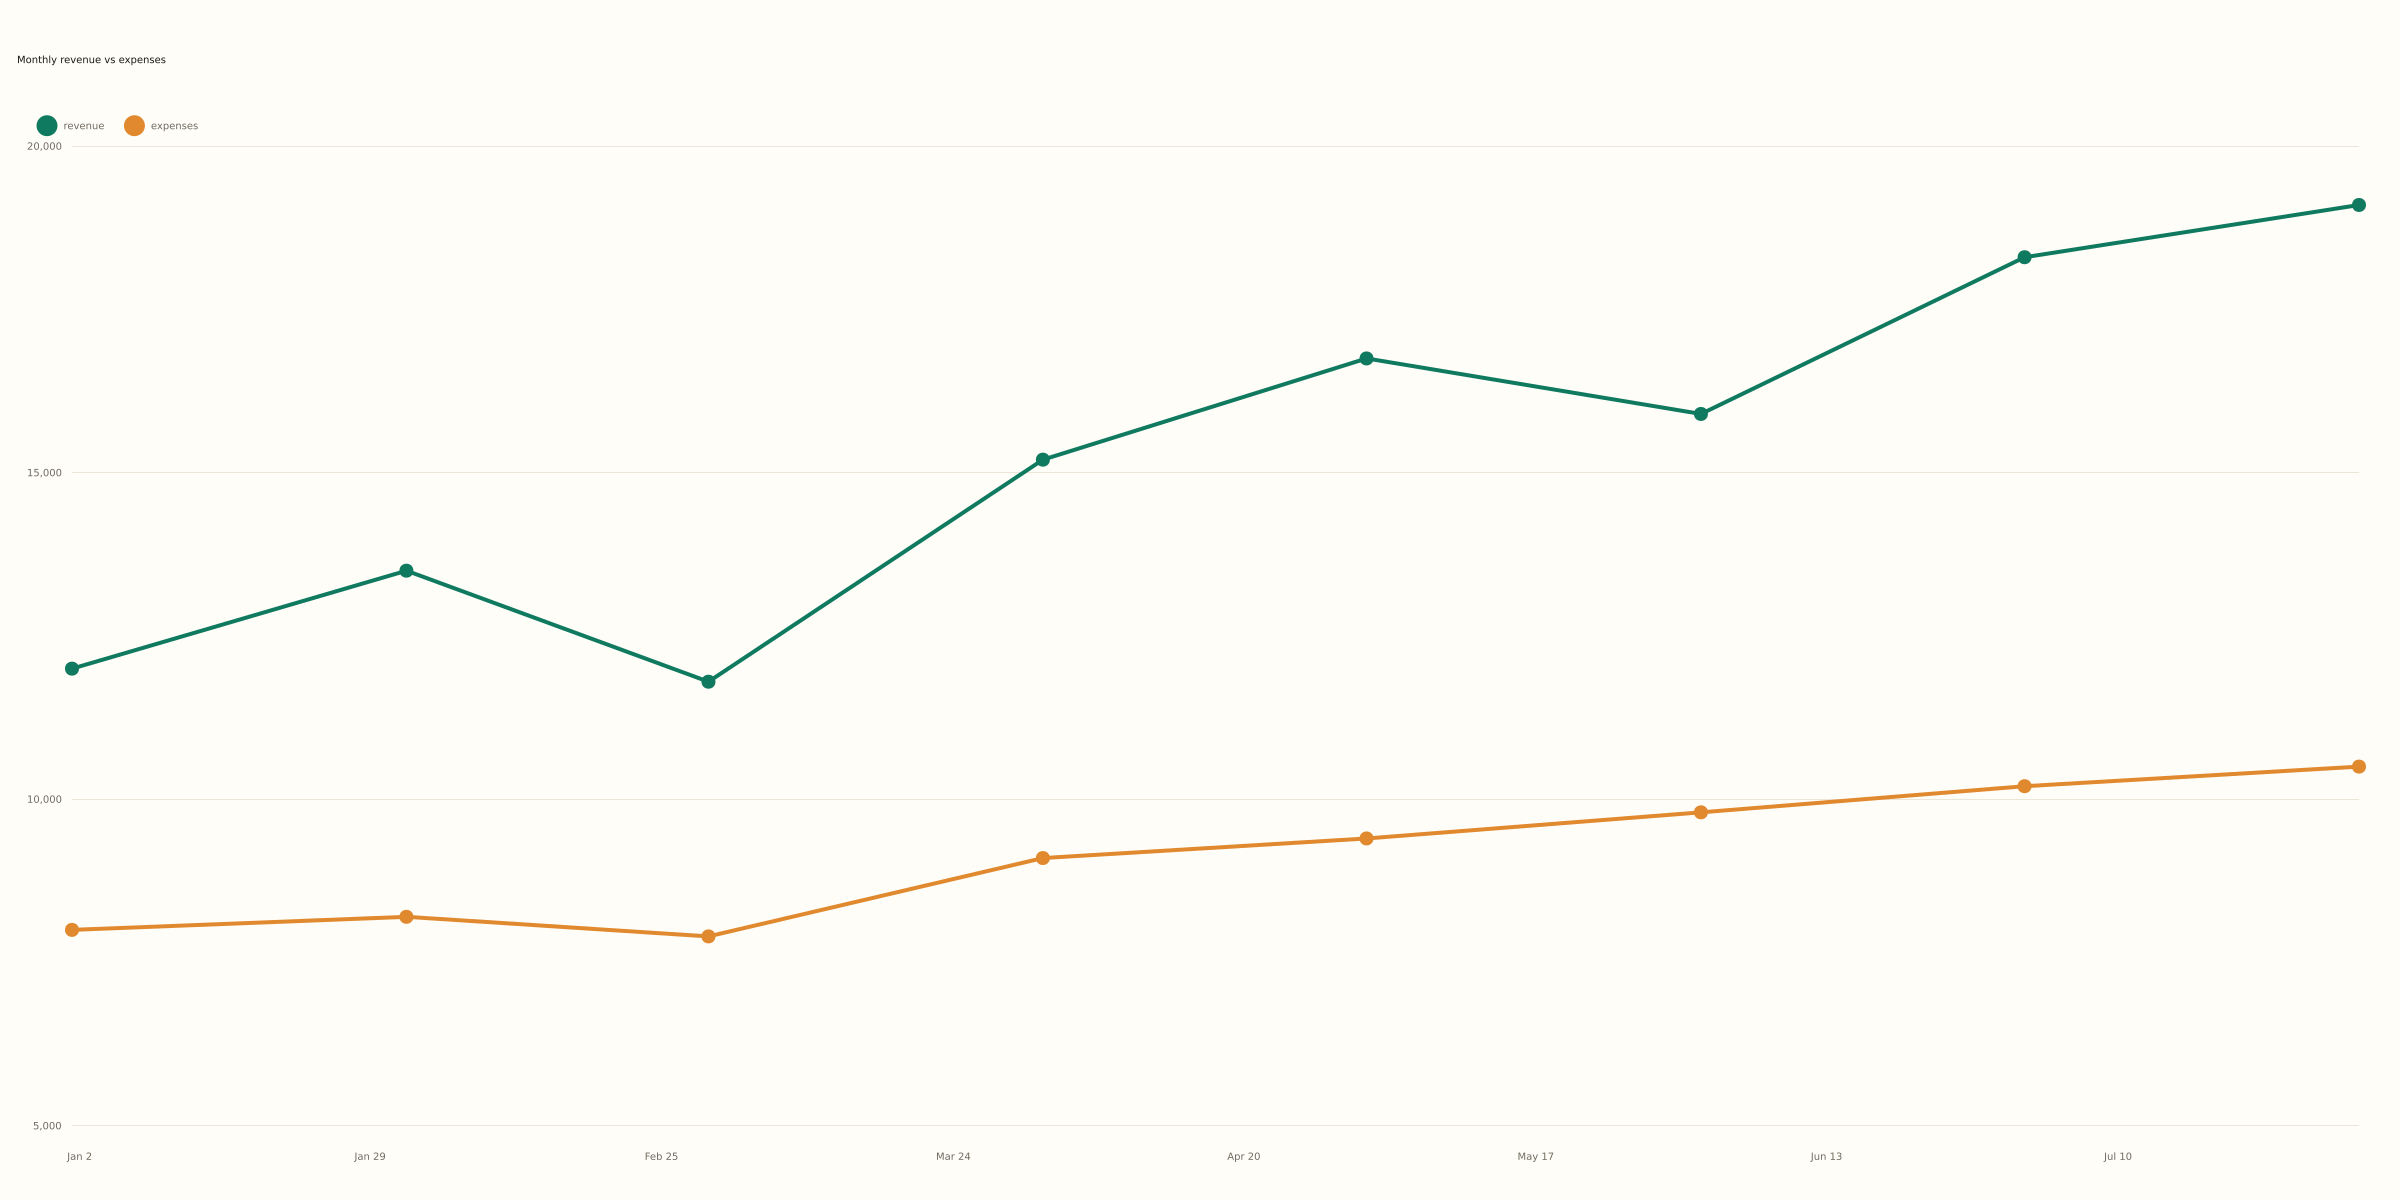
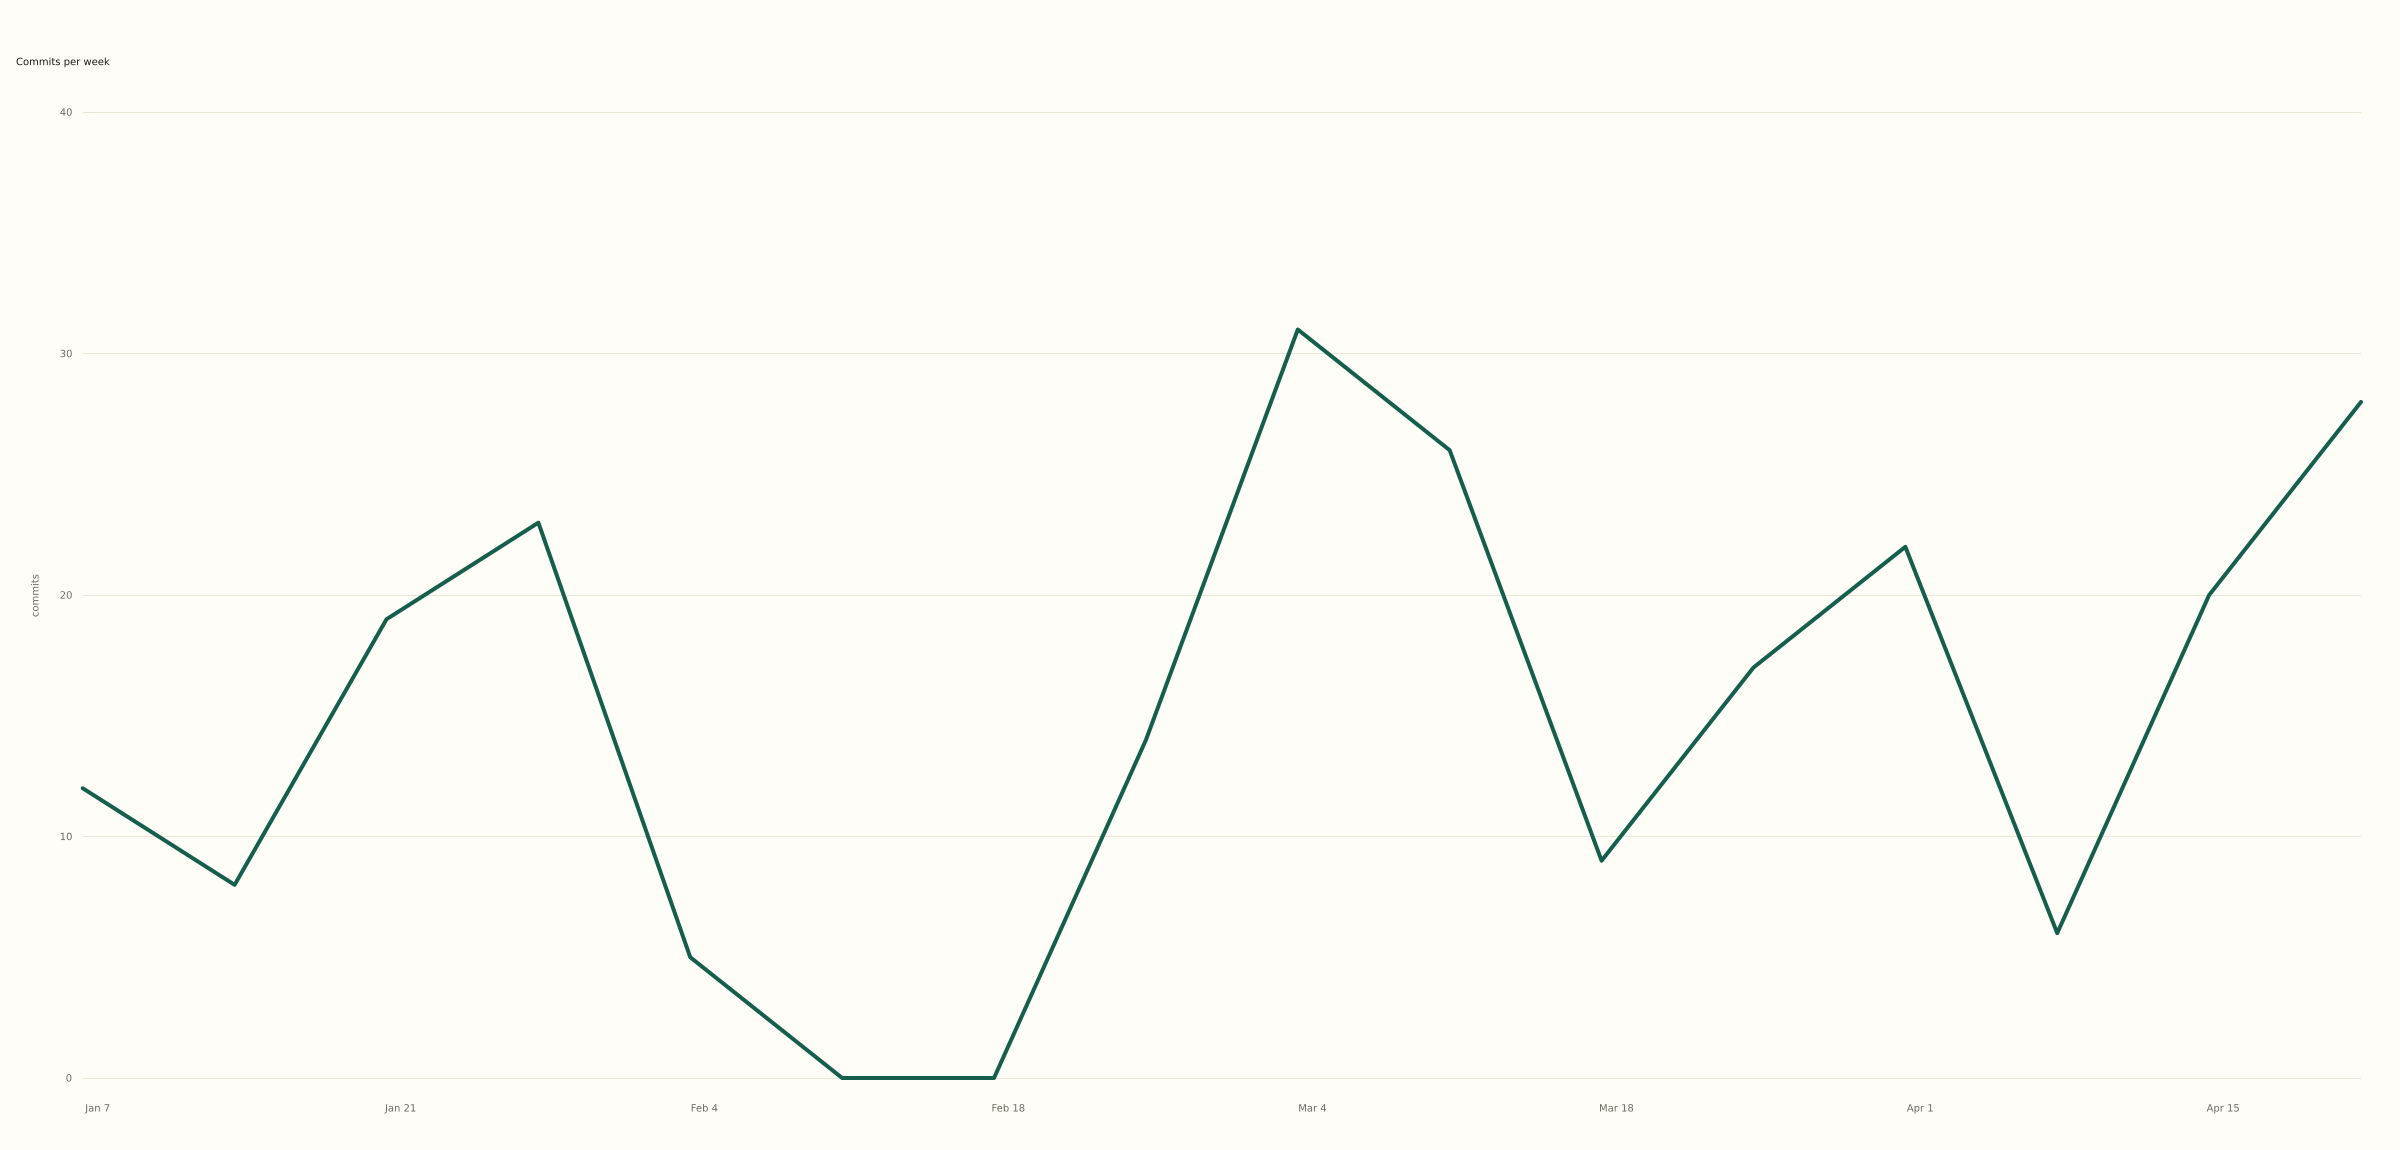
polish: de-AI pass after another round of reviews
- new hero: noisy weekly-commit data with a real two-week gap, not a synthetic
  revenue climb
- palette: deeper pine accent off the default teal, muted support colours,
  near-square bars, larger chart title
- wordmark out of monospace; tightened README + in-app copy (dropped "zero
  setup", "sensible", "clean" and a repeated privacy line)
- trimmed some over-explaining comments; added a real TODO for EU number formats
- add CONTRIBUTING

diff --git a/index.html b/index.html
@@ -3,10 +3,10 @@
   <head>
     <meta charset="UTF-8" />
     <meta name="viewport" content="width=device-width, initial-scale=1.0" />
-    <title>chartsnap — drop a CSV, get a share-ready chart</title>
+    <title>chartsnap — CSV to chart, in your browser</title>
     <meta
       name="description"
-      content="Drop a CSV, get a clean chart sized for Twitter, Instagram, or A4 print. Zero config, 100% in your browser, free PNG + SVG export."
+      content="Drop a CSV and get a chart sized for Twitter, Instagram, or A4. Runs in your browser, nothing uploaded. Free PNG and SVG export."
     />
   </head>
   <body>
@@ -14,7 +14,7 @@
       <p class="kicker">csv &rarr; chart</p>
       <h1 class="wordmark">chartsnap</h1>
       <p class="tagline">
-        Drop a CSV, get a share-ready chart. Zero setup &mdash; nothing leaves your browser.
+        Drop a CSV, get a chart you can post. Nothing leaves your browser.
       </p>
     </header>
 
@@ -27,7 +27,7 @@
       >
         <div class="drop-inner">
           <p class="drop-title">Drop a CSV here</p>
-          <p class="drop-sub">or click to browse · or paste CSV text anywhere on the page</p>
+          <p class="drop-sub">click to browse, or paste a CSV anywhere on the page</p>
           <input id="file" type="file" accept=".csv,text/csv,text/plain" hidden />
         </div>
       </section>
@@ -74,16 +74,13 @@
           <button id="dl-png" type="button" class="btn btn-primary">Download PNG</button>
           <button id="dl-svg" type="button" class="btn btn-primary">Download SVG</button>
         </div>
-        <p class="export-hint">
-          PNG and SVG are both free, watermark-free, and generated entirely on your device.
-        </p>
+        <p class="export-hint">Both free, no watermark.</p>
       </section>
     </main>
 
     <footer class="site-footer">
       <p>
-        100% client-side · your data never leaves this page ·
-        <a id="repo-link" href="#" rel="noopener">source</a>
+        Runs in your browser. <a id="repo-link" href="#" rel="noopener">Source</a> · MIT
       </p>
     </footer>
 

diff --git a/src/style.css b/src/style.css
@@ -7,8 +7,8 @@
   --faint: #948d7c;
   --line: #e7e1d3;
   --line-strong: #d6cfbc;
-  --accent: #0f7a5f; /* muted teal-green, used sparingly for affordances only */
-  --accent-tint: #eef4f0;
+  --accent: #155e4c; /* deep pine — the one signature colour, used sparingly */
+  --accent-tint: #ecf1ee;
   --danger: #a23a1e;
   --danger-bg: #fbf1ec;
   --info-ink: #235e6f;
@@ -49,12 +49,11 @@ main,
 
 /* ---- header: compact, left-aligned, editorial (not a centered hero) ---- */
 .site-header {
-  padding: 44px 22px 18px;
+  padding: 56px 22px 20px;
 }
 
 .kicker {
   margin: 0 0 10px;
-  font-family: var(--font-mono);
   font-size: 0.72rem;
   letter-spacing: 0.22em;
   text-transform: uppercase;
@@ -63,10 +62,9 @@ main,
 
 .wordmark {
   margin: 0;
-  font-family: var(--font-mono);
-  font-size: 2.1rem;
-  font-weight: 600;
-  letter-spacing: -0.02em;
+  font-size: 2.15rem;
+  font-weight: 700;
+  letter-spacing: -0.03em;
   color: var(--ink);
 }
 

diff --git a/src/detect.ts b/src/detect.ts
@@ -43,15 +43,8 @@ function autoType(c: Cols): ChartType {
   return "bar"; // a single numeric column → bar by row
 }
 
-/**
- * Zero-config chart-type inference from CSV *shape* (Done criteria #1):
- *   - a date/time column present   → line
- *   - a category column + numbers  → bar
- *   - two-or-more numeric only      → scatter
- *   - a single numeric column       → bar by row
- * Pass `force` to override the guess (the escape hatch, v1.1) — throws DetectError if
- * that type can't be built (e.g. scatter without two numeric columns).
- */
+// Guess a chart type from the CSV's shape. Pass `force` to override the guess; it
+// throws when that type can't be built (e.g. scatter needs two numeric columns).
 export function detectChart(parsed: ParsedCsv, force?: ChartType): Detection {
   const c = classify(parsed);
   if (c.numbers.length === 0) {

diff --git a/src/chart.ts b/src/chart.ts
@@ -15,9 +15,9 @@ Chart.register(...registerables);
 Chart.defaults.font.family =
   "system-ui, -apple-system, Segoe UI, Roboto, Helvetica, Arial, sans-serif";
 
-// Curated, warm-editorial data palette (harmonises with the tool's paper/ink UI).
-// The first two — teal-green + warm ochre — carry the common 1–2 series case.
-const PALETTE = ["#0f7a5f", "#e0892e", "#3f6f9c", "#c25e54", "#7b6aa8", "#5a8f6e"];
+// Two colours I actually like (deep pine + ochre) carry the common 1–2 series case;
+// the rest are muted on purpose so they sit back instead of fighting for attention.
+const PALETTE = ["#155e4c", "#cf8636", "#6b7f92", "#a86a5f", "#8a8199", "#6f8a76"];
 
 /** Warm near-white background shared by the raster (PNG) and vector (SVG) exports. */
 export const EXPORT_BG = "#fffdf8";
@@ -70,7 +70,7 @@ export function buildConfig(
   const fontScale = clamp(Math.min(opts.width, opts.height) / 700, 1, 4);
   const px = (n: number) => Math.round(n * fontScale);
   const font = {
-    title: px(21),
+    title: px(25),
     axis: px(12),
     ticks: px(12),
     legend: px(12.5),
@@ -294,7 +294,7 @@ export function buildConfig(
       backgroundColor: color,
       borderColor: color,
       borderWidth: 0,
-      borderRadius: px(5),
+      borderRadius: px(2),
       borderSkipped: false,
       maxBarThickness: px(96),
       categoryPercentage: 0.72,

diff --git a/test/svg.test.ts b/test/svg.test.ts
@@ -34,7 +34,7 @@ describe("SVG export produces real, non-empty vector output", () => {
     const detection = detectChart(parsed, "line"); // force line via the escape hatch
     const svg = renderSvgString(parsed, detection, "line", PRESETS[0]);
     expect(svg).toMatch(/<path\b/);
-    expect(svg).toContain("#0f7a5f");
+    expect(svg).toContain("#155e4c");
   });
 
   it("bar chart renders rounded corners as arc paths (not squared-off)", () => {
@@ -44,7 +44,7 @@ describe("SVG export produces real, non-empty vector output", () => {
     // Rounded bar tops are drawn via ctx.arc() → SVG elliptical-arc "A" commands.
     const barPath = [...svg.matchAll(/<path\b[^>]*>/g)]
       .map((m) => m[0])
-      .find((p) => p.toLowerCase().includes("#0f7a5f"));
+      .find((p) => p.toLowerCase().includes("#155e4c"));
     expect(barPath).toBeTruthy();
     expect(barPath).toMatch(/\bd="[^"]*[Aa]/);
   });

diff --git a/src/csv.ts b/src/csv.ts
@@ -23,6 +23,7 @@ export function decodeUtf8(buffer: ArrayBuffer): { text: string; looksNonUtf8: b
 }
 
 function cleanNumber(s: string): number {
+  // TODO: US-format only. EU "1.234,56" falls through and reads as a category.
   const t = s.trim().replace(/,(?=\d{3}(\D|$))/g, ""); // strip thousands separators
   if (t === "") return NaN;
   const n = Number(t);

diff --git a/CONTRIBUTING.md b/CONTRIBUTING.md
@@ -1,0 +1,23 @@
+# Contributing
+
+Small tool, but issues and PRs are welcome.
+
+A couple of things to know before you open a PR:
+
+- **It stays zero-config.** Drop a CSV, get a chart — that's the whole idea. If a
+  change adds a settings panel or a field-mapping UI, it probably belongs in
+  [RAWGraphs](https://github.com/rawgraphs/rawgraphs-app), not here.
+- **It stays 100% client-side.** No backend, no analytics, nothing phoning home.
+- **Run `npm test` first.** If you touch the detection logic or the SVG export, add a
+  case — the SVG smoke test exists because canvas2svg is held together with shims and
+  breaks quietly.
+
+```bash
+npm install
+npm run dev
+npm test
+```
+
+The most useful bug report is a CSV that charts wrong: paste a few rows and say what you
+expected to see. What's in scope and what's deliberately left out is in
+[docs/SPEC.md](docs/SPEC.md).

diff --git a/README.md b/README.md
@@ -1,14 +1,14 @@
 # chartsnap
 
-Turn a CSV into a chart you can post — without uploading it anywhere.
+Turn a CSV into a chart you can post, without uploading it anywhere.
 
-Drop a file, chartsnap picks a sensible chart from your columns, and you download a
-clean PNG or SVG sized for Twitter, Instagram, or an A4 page. It all runs in the
-browser, so your data never touches a server.
+Drop a file, chartsnap guesses a chart from your columns, and you download a PNG or SVG
+sized for Twitter, Instagram, or an A4 page. It all runs in the browser, so your data
+never touches a server.
 
 **Live:** https://kbwen.github.io/chartsnap/
 
-![A chartsnap line chart of monthly revenue vs expenses — warm background, teal and ochre lines](docs/hero.png)
+![A chartsnap line chart of weekly commits with a two-week gap, deep green line on a warm background](docs/hero.png)
 
 ## Why it exists
 
@@ -33,7 +33,7 @@ No CSV to hand? There are sample buttons on the page.
 
 ## How it picks a chart
 
-It reads the shape of your columns:
+It looks at what's in each column:
 
 | Your data                    | Chart        |
 | ---------------------------- | ------------ |